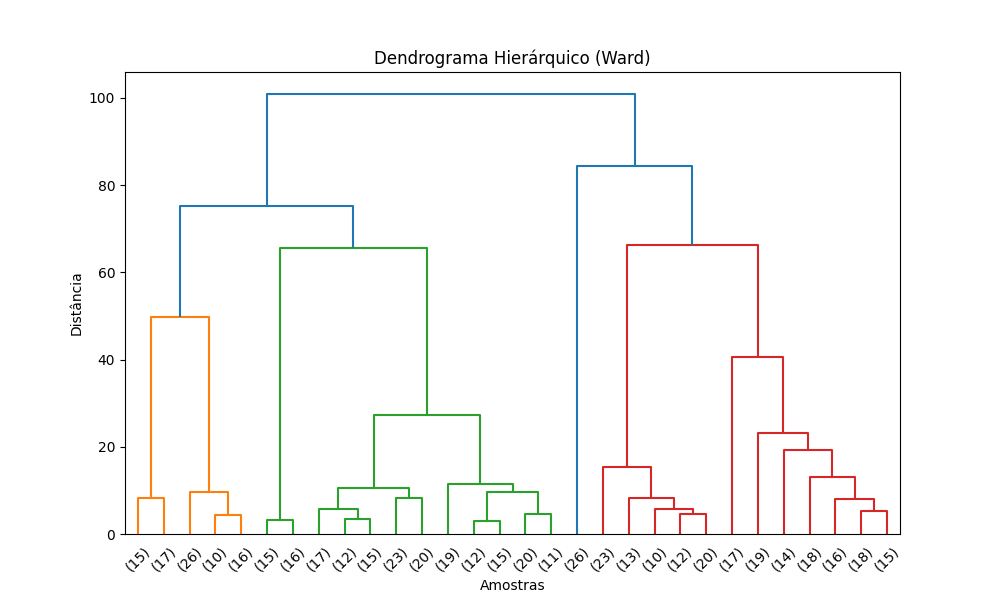
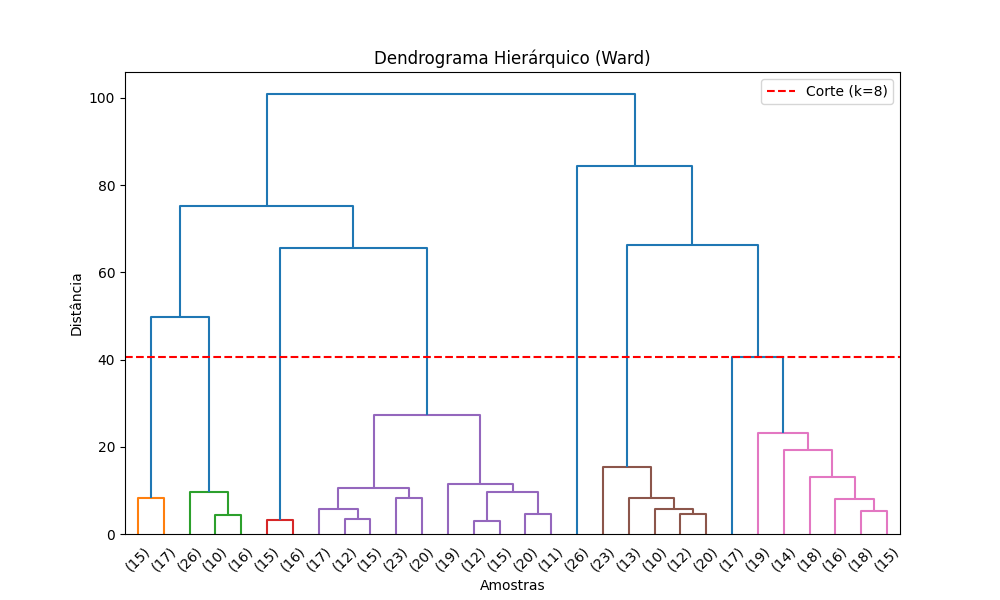
Update dendrogram coloring based on target_k and draw cut line

diff --git a/src/cluster_embeddings.py b/src/cluster_embeddings.py
@@ -143,11 +143,19 @@ def run_hierarchical(embeddings, out_dir="plots", target_k=6):
     print("\n--- Rodando Clusterização Hierárquica ---")
     Z = linkage(embeddings, method='ward')
     
+    # Calcular a distância exata onde a árvore forma `target_k` clusters
+    if target_k > 1 and len(Z) >= target_k:
+        color_threshold = Z[-(target_k - 1), 2]
+    else:
+        color_threshold = 0.7 * max(Z[:, 2])
+
     plt.figure(figsize=(10, 6))
-    dendrogram(Z, truncate_mode='lastp', p=30)
+    dendrogram(Z, truncate_mode='lastp', p=30, color_threshold=color_threshold)
+    plt.axhline(y=color_threshold, color='r', linestyle='--', label=f'Corte (k={target_k})')
     plt.title("Dendrograma Hierárquico (Ward)")
     plt.xlabel("Amostras")
     plt.ylabel("Distância")
+    plt.legend()
     plt.savefig(os.path.join(out_dir, "dendrogram.png"))
     plt.close()
     
